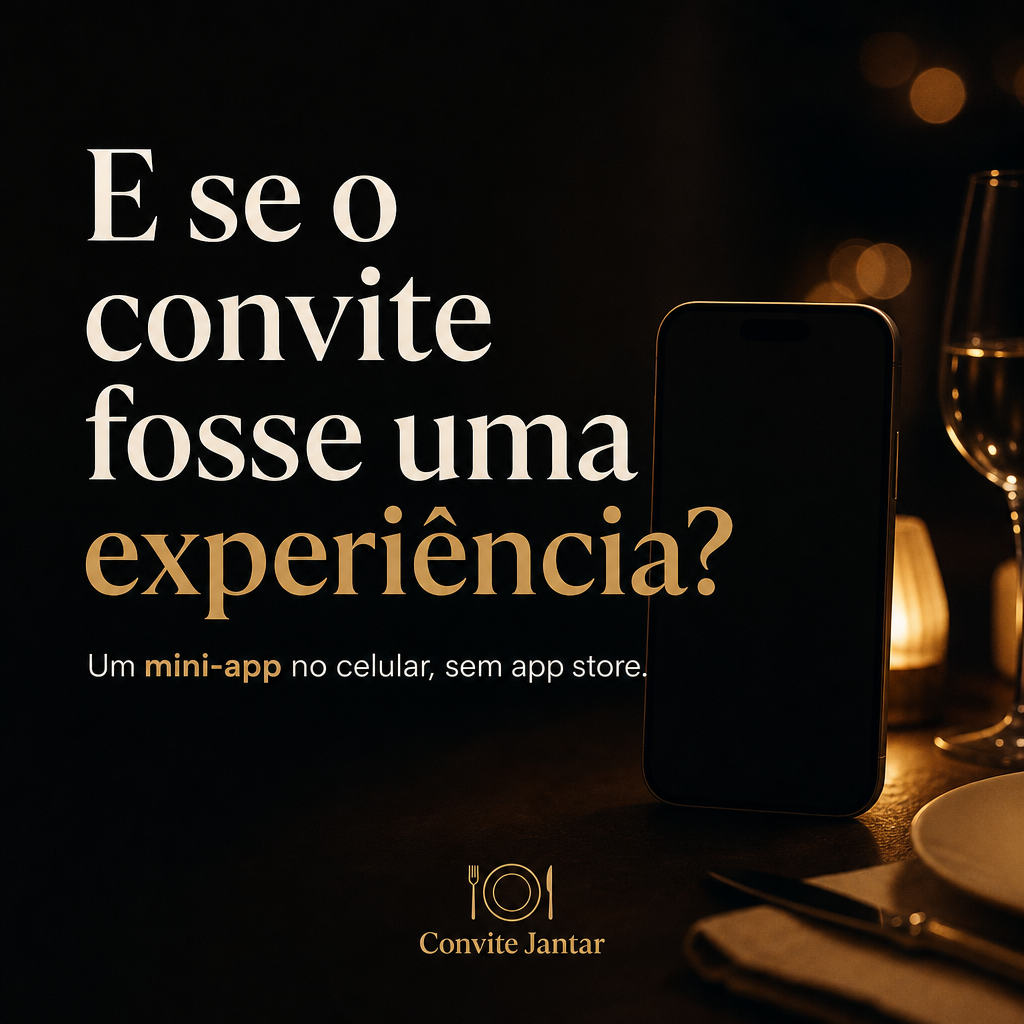
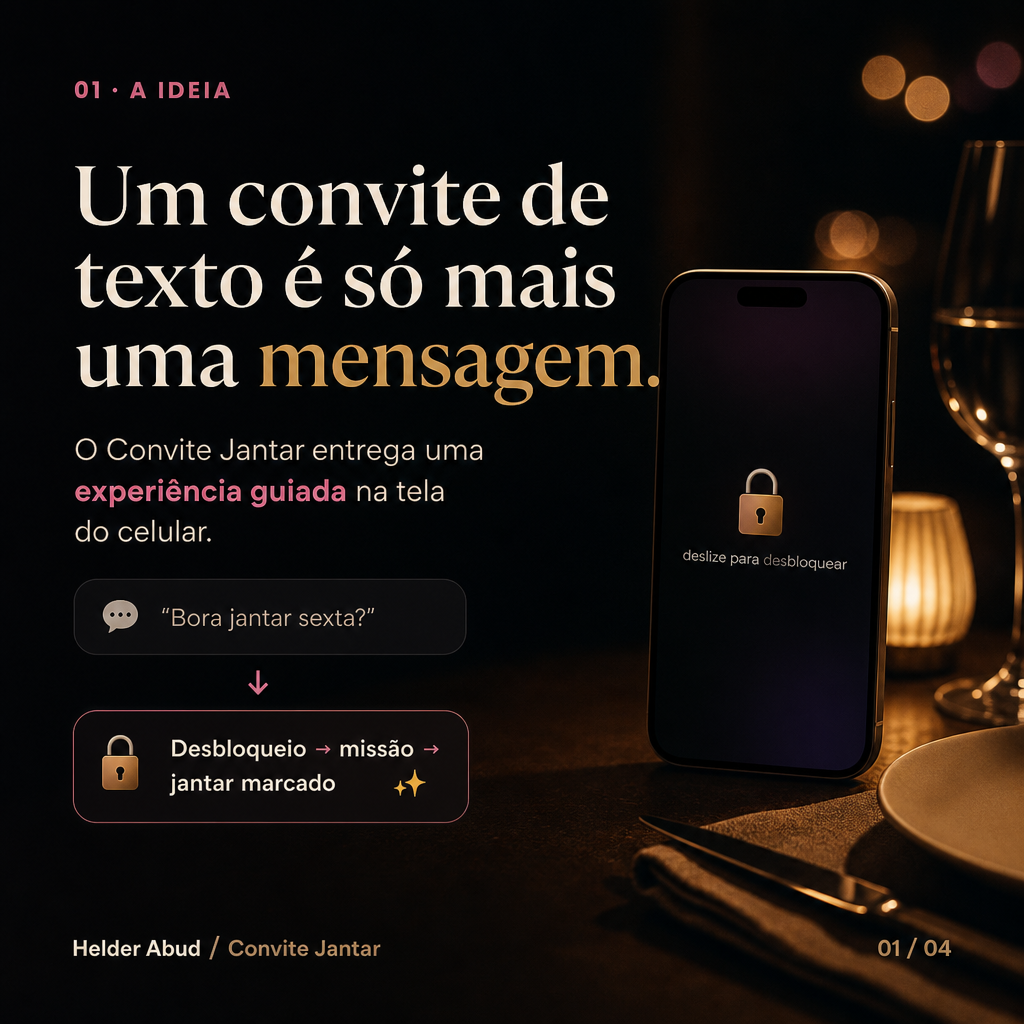
docs(linkedin): capa no README e slides com mais contexto
Adiciona hero no README com links do demo/editor e atualiza o kit visual do carrossel LinkedIn.

diff --git a/README.md b/README.md
@@ -2,11 +2,14 @@
 
 Convite interativo estilo iPhone — mini app HTML. Use o exemplo Helder → Alexia **ou** crie o seu e compartilhe um link.
 
-**Link:** https://helderabud.github.io/Jantar/
+![Convite Jantar — capa](docs/linkedin/linkedin-capa-convite-jantar.png)
 
-**Crie o seu:** https://helderabud.github.io/Jantar/?modo=editor
+## Links
 
-(Alternativa com hash: https://helderabud.github.io/Jantar/#editor — no próprio convite use o botão **Criar o seu convite**.)
+- https://helderabud.github.io/Jantar/
+- https://helderabud.github.io/Jantar/?modo=editor
+
+Kit LinkedIn: [`docs/linkedin/`](docs/linkedin/).
 
 ## O que é
 
